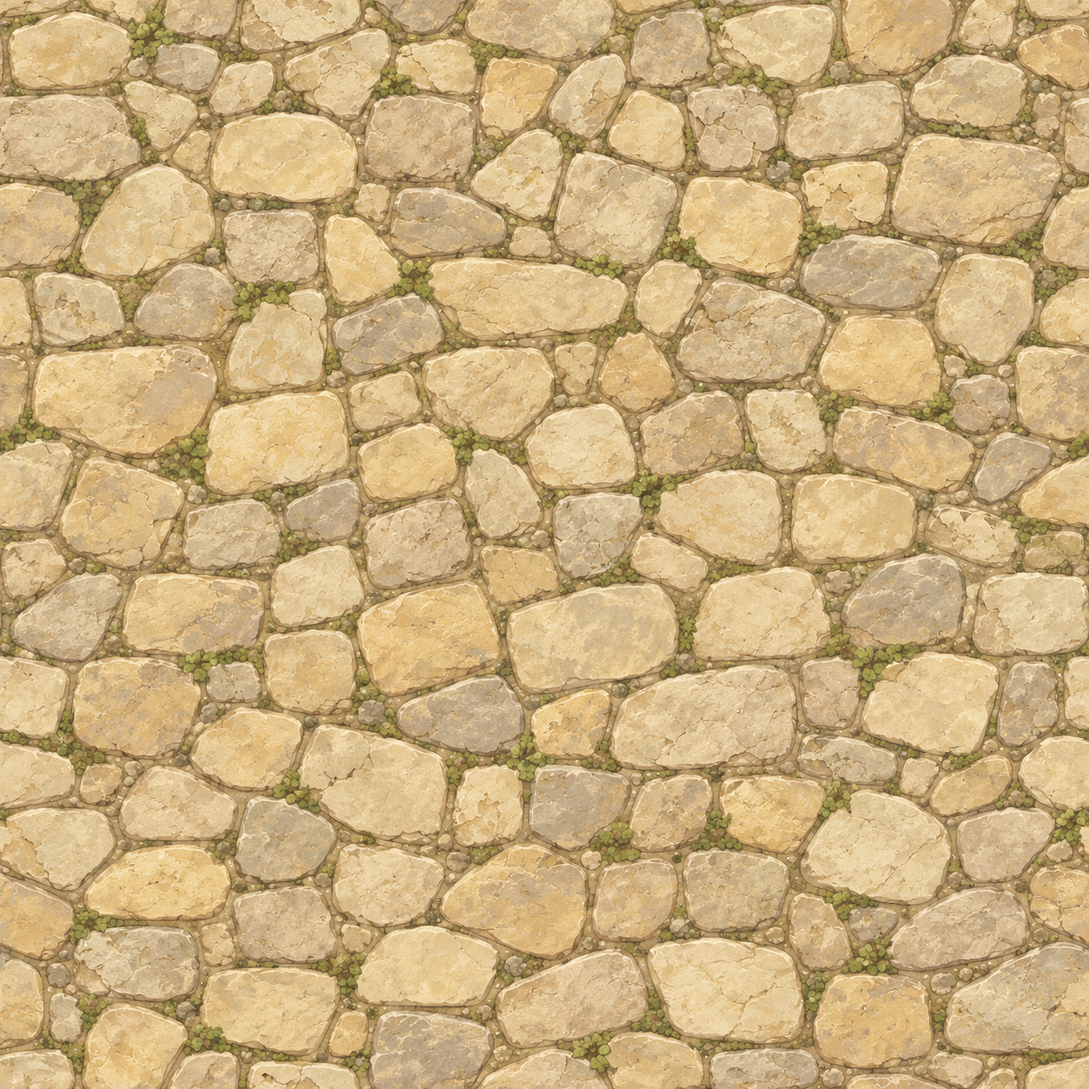
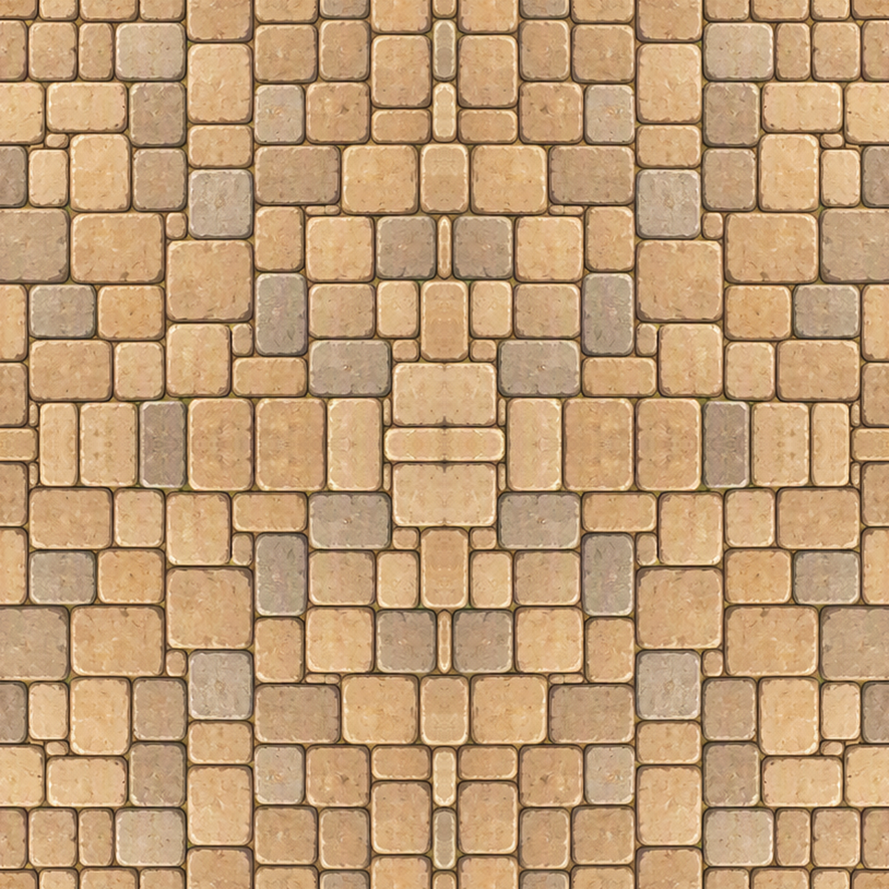
v63: fix small props drawing over buildings; new paving/grass tiles, round trees, firs, rocks, hedge rows, flower beds, lamp posts
Claude-Session: https://claude.ai/code/session_017qp7gUgbBUS4Gtiu5aUxHe

diff --git a/village-town.html b/village-town.html
@@ -4,7 +4,7 @@
 /* Immersive town canvas; controls float above the scene. */
 body{overflow:hidden}header{position:fixed;z-index:5;top:20px;left:24px;height:auto;background:none;border:0;padding:0;pointer-events:none;text-shadow:0 2px 10px #10271c}header small{font-size:9px;color:#f7edc6}header h1{font-size:19px;color:#fff0c7}.tag{display:none}main{display:block;height:100dvh}#stage{position:absolute;inset:0;background:#7b8f68}aside{display:none;position:fixed;z-index:9;top:112px;left:24px;width:230px;max-height:calc(100dvh - 140px);border:1px solid #c7c6a04d;border-radius:14px;background:#20382de8;backdrop-filter:blur(16px);box-shadow:0 15px 40px #18362650;padding:16px}aside.open{display:block}.editor{display:none}.hint{font-size:11px;margin-top:10px;padding-top:10px}#places{gap:1px}#places button{padding:6px 4px}#places b{width:23px;height:23px}.toolbar{left:auto;right:22px;top:22px;z-index:6;gap:7px}.toolbar button,.floatBtn{background:#213b2de8;border-color:#cbd2ac70;box-shadow:0 3px 14px #18362640;backdrop-filter:blur(12px)}#menuBtn{position:fixed;left:24px;top:74px;z-index:10;font-size:12px}.toolsPanel{position:fixed;z-index:10;right:22px;top:70px;width:220px;padding:14px;display:grid;gap:8px;background:#20382df2;border:1px solid #c7c6a04d;border-radius:12px;backdrop-filter:blur(16px)}.toolsPanel[hidden]{display:none}.toolsPanel button,.toolsPanel label{font-size:12px}.toolsPanel h3{font-size:12px;color:#e3d3a8;margin:0 0 4px}#compare{z-index:8;top:72px;width:min(440px,75%)}#status{left:24px;bottom:24px;font-size:12px;padding:10px 14px;border-color:#d1d5a250;background:#213b2de0}#credit{right:24px;bottom:24px;font-size:10px;color:#fcf4d3b0;text-shadow:0 1px 5px #1b3128}#help{position:fixed;bottom:65px;left:24px;pointer-events:none;font-size:11px;color:#f4edce;text-shadow:0 1px 4px #1a3326}#connection{font-size:11px;color:#d9e3bf;line-height:1.5}#connection.warning{color:#ffc29b}#editHelp{font-size:11px}.toolsPanel label.file{padding:8px 12px}#grid,#routes{display:none}#labels{font-size:12px}
 @media(max-width:760px){header{left:14px;top:14px}header h1{font-size:16px}header small{font-size:8px}#menuBtn{left:14px;top:61px}.toolbar{right:12px;top:14px;max-width:48%;justify-content:flex-end}.toolbar button{font-size:10px;padding:7px}aside{left:14px;top:101px;width:215px;max-height:calc(100dvh - 125px)}#status{left:14px;bottom:14px;max-width:calc(100% - 28px)}#help{left:14px;bottom:55px;font-size:10px}#credit{display:none}.toolsPanel{right:12px;top:60px}#compare{right:12px;top:95px;width:85%}}
-</style><header><div><small>PROJECT A / VILLAGE</small><h1>หมู่บ้านริมป่า</h1></div><span class="tag">ฉากทดลอง · อ้างอิงผังเดิม</span></header><button id="menuBtn" class="floatBtn" aria-expanded="false">☰ สถานที่</button><main><aside id="locationMenu"><h2>สถานที่ในหมู่บ้าน</h2><div id="places"></div><div class="hint">คลิกถนนเพื่อเดิน<br>ลากพื้นเพื่อเลื่อนกล้อง<br>หมุนล้อเพื่อซูม<br>คลิกสถานที่เพื่อเดินไปทางเข้า</div></aside><section id="stage"><canvas id="world" aria-label="ฉากหมู่บ้าน 2.5D คลิกเพื่อเดิน"></canvas><div class="toolbar"><button data-game="bag">กระเป๋า</button><button data-game="character">ตัวละคร</button><button data-game="upgrade">อัปไพ่</button><button data-game="adventure">ผจญภัย</button><button data-game="settings">ตั้งค่า</button><button id="activities">กิจกรรม</button><button id="compareBtn">ผังเดิม</button><button id="fit">ดูทั้งเมือง</button><button id="fullscreen">เต็มจอ</button><button id="toolsBtn" aria-expanded="false">⚙ เครื่องมือ</button></div><div class="toolsPanel" id="toolsPanel" hidden><h3>เครื่องมือจัดฉาก</h3><button id="labels">แสดงชื่อทุกสถานที่</button><button id="edit">จัดตำแหน่ง</button><div id="editHelp" hidden>ลากหมุดสีทองเพื่อย้ายอาคาร หรือเลือกสถานที่แล้วสลับหน้า SE/SW ถนนจะเชื่อมตามประตูใหม่</div><button id="facing">สลับหน้าอาคาร SE / SW</button><button id="export">ส่งออกพิกัด</button><label class="file">นำเข้าพิกัด<input type="file" id="import" accept=".json,application/json"></label><button id="reset">คืนผังต้นฉบับ</button><div id="connection"></div><button id="grid">พื้นที่เดิน</button><button id="routes">เส้นทาง</button></div><div id="compare" hidden><div class="map"><img src="assets/v03/village-map.webp" alt="แผนที่หมู่บ้านเดิม"><div id="pins"></div></div><p>หมายเลขตรงกับรายการซ้าย • ตำแหน่งอ้างอิงจากแผนที่เดิม</p></div><div id="status" role="status">เลือกสถานที่ หรือคลิกพื้นเพื่อลองเดิน</div><span id="credit"></span><div id="help">คลิกถนนเพื่อเดิน · ลากเพื่อเลื่อนกล้อง · หมุนล้อเพื่อซูม</div></section></main><dialog id="arrival"><h2></h2><p>กำลังตรวจสถานที่…</p><div id="placeActions"></div><button onclick="this.closest('dialog').close()">เดินต่อ</button></dialog><script src="js/asset-manifest.js"></script><script src="js/tactics-sprites.js"></script><script src="js/hero-motion.js"></script><script src="js/village-alpha-masks.js"></script><script src="js/town-art.js?v=57"></script><script>
+</style><header><div><small>PROJECT A / VILLAGE</small><h1>หมู่บ้านริมป่า</h1></div><span class="tag">ฉากทดลอง · อ้างอิงผังเดิม</span></header><button id="menuBtn" class="floatBtn" aria-expanded="false">☰ สถานที่</button><main><aside id="locationMenu"><h2>สถานที่ในหมู่บ้าน</h2><div id="places"></div><div class="hint">คลิกถนนเพื่อเดิน<br>ลากพื้นเพื่อเลื่อนกล้อง<br>หมุนล้อเพื่อซูม<br>คลิกสถานที่เพื่อเดินไปทางเข้า</div></aside><section id="stage"><canvas id="world" aria-label="ฉากหมู่บ้าน 2.5D คลิกเพื่อเดิน"></canvas><div class="toolbar"><button data-game="bag">กระเป๋า</button><button data-game="character">ตัวละคร</button><button data-game="upgrade">อัปไพ่</button><button data-game="adventure">ผจญภัย</button><button data-game="settings">ตั้งค่า</button><button id="activities">กิจกรรม</button><button id="compareBtn">ผังเดิม</button><button id="fit">ดูทั้งเมือง</button><button id="fullscreen">เต็มจอ</button><button id="toolsBtn" aria-expanded="false">⚙ เครื่องมือ</button></div><div class="toolsPanel" id="toolsPanel" hidden><h3>เครื่องมือจัดฉาก</h3><button id="labels">แสดงชื่อทุกสถานที่</button><button id="edit">จัดตำแหน่ง</button><div id="editHelp" hidden>ลากหมุดสีทองเพื่อย้ายอาคาร หรือเลือกสถานที่แล้วสลับหน้า SE/SW ถนนจะเชื่อมตามประตูใหม่</div><button id="facing">สลับหน้าอาคาร SE / SW</button><button id="export">ส่งออกพิกัด</button><label class="file">นำเข้าพิกัด<input type="file" id="import" accept=".json,application/json"></label><button id="reset">คืนผังต้นฉบับ</button><div id="connection"></div><button id="grid">พื้นที่เดิน</button><button id="routes">เส้นทาง</button></div><div id="compare" hidden><div class="map"><img src="assets/v03/village-map.webp" alt="แผนที่หมู่บ้านเดิม"><div id="pins"></div></div><p>หมายเลขตรงกับรายการซ้าย • ตำแหน่งอ้างอิงจากแผนที่เดิม</p></div><div id="status" role="status">เลือกสถานที่ หรือคลิกพื้นเพื่อลองเดิน</div><span id="credit"></span><div id="help">คลิกถนนเพื่อเดิน · ลากเพื่อเลื่อนกล้อง · หมุนล้อเพื่อซูม</div></section></main><dialog id="arrival"><h2></h2><p>กำลังตรวจสถานที่…</p><div id="placeActions"></div><button onclick="this.closest('dialog').close()">เดินต่อ</button></dialog><script src="js/asset-manifest.js"></script><script src="js/tactics-sprites.js"></script><script src="js/hero-motion.js"></script><script src="js/village-alpha-masks.js"></script><script src="js/town-art.js?v=63"></script><script>
 'use strict';
 const WORLD_W=4480,WORLD_H=2520,MX=44.8,MY=25.2;
 const HOUSE='assets/village-town/player-house.png';const BUILDINGS={"inn": "assets/village-town/inn.png", "guild": "assets/village-town/guild.png", "healer": "assets/village-town/healer.png", "shop": "assets/village-town/shop.png", "market": "assets/village-town/market.png", "temple": "assets/village-town/temple.png", "forge": "assets/village-town/forge.png"};let hovered=null;
@@ -62,7 +62,7 @@ function tree(t){const p=project(t.u,t.v),h=t.h*3;propSprite(7,p,h*.85,h)}
 function bush(u,v,flower=false){propSprite(2,project(u,v),85,85)}
 // v60: estate borders mix hedges, flower beds and planters (FFT/cozy-village look); real fences only on some fronts
 // optional generated decor: dropped into assets/village-town/decor/<name>.png it shows up automatically
-const DECOR=['bench','market-stall-red','market-stall-blue','banner-pole','woodpile','signpost','well','cart','hay','flower-box'],decorImg={};
+const DECOR=['hedge-row','flower-bed','lamp-post','bench','market-stall-red','market-stall-blue','banner-pole','woodpile','signpost','well','cart','hay','flower-box'],decorImg={};
 for(const n of DECOR){const im=new Image();im.onload=()=>{decorImg[n]=im;terrainDirty=true};im.src='assets/village-town/decor/'+n+'.png'}
 function decor(name,p,w,flip){const im=decorImg[name];if(!im)return;const h=w*im.naturalHeight/im.naturalWidth;g.save();g.translate(p.x,p.y);if(flip)g.scale(-1,1);g.fillStyle='#00000028';g.beginPath();g.ellipse(0,0,w*.38,w*.12,0,0,Math.PI*2);g.fill();TownArt.draw(g,im,null,[-w/2,-h*.92,w,h],project(hero.u,hero.v));g.restore()}
 function hashN(id,k){let h=2166136261;for(const c of id+':'+k)h=Math.imul(h^c.charCodeAt(0),16777619);return (h>>>0)/4294967296}
@@ -71,26 +71,26 @@ function borderStyle(o,si,k,n,front){const r=hashN(o.id,si*31+k);
  return r<.55?'hedge':r<.82?'flowers':r<.9?'gap':'hedge'}
 function drawBorder(a,b,style,r){if(style==='gap')return;if(style==='wood'||style==='stone'){drawFence(a,b,style);return}
  const at=q=>project(a.u+(b.u-a.u)*q,a.v+(b.v-a.v)*q);
- if(style==='hedge'){for(const q of[.22,.72]){const p=at(q),s=74+((r*997+q*13)%1)*22;propSprite(2,{x:p.x,y:p.y+8},s,s*.92)}return}
+ if(style==='hedge'){const A=project(a.u,a.v),B=project(b.u,b.v),im=decorImg['hedge-row'];if(im){const m=at(.5),w=Math.abs(B.x-A.x)+46,h=w*im.naturalHeight/im.naturalWidth;g.save();g.translate(m.x,m.y+6);if((B.x-A.x)*(B.y-A.y)>0)g.scale(-1,1);TownArt.draw(g,im,null,[-w/2,-h*.66,w,h],project(hero.u,hero.v));g.restore();return}for(const q of[.22,.72]){const p=at(q),s=74+((r*997+q*13)%1)*22;propSprite(2,{x:p.x,y:p.y+8},s,s*.92)}return}
  if(style==='planter'){const p=at(.5);propSprite(3,{x:p.x,y:p.y+6},74,90);return}
- for(const q of[.18,.5,.82]){const p=at(q);TownArt.detail(g,1+Math.floor(((r*7+q*3)%1)*2),{x:p.x,y:p.y+12},58)}}
+ if(decorImg['flower-bed']&&r<.6){const p=at(.5);decor('flower-bed',{x:p.x,y:p.y+14},118,r<.3);return}for(const q of[.18,.5,.82]){const p=at(q);TownArt.detail(g,1+Math.floor(((r*7+q*3)%1)*2),{x:p.x,y:p.y+12},58)}}
 // slim iron street lamp drawn in code (warm glass, soft glow)
-function lamp(p){const h=118,t=performance.now(),fl=.85+.15*Math.sin(t*.004+p.x);g.fillStyle='#00000035';g.beginPath();g.ellipse(p.x,p.y,13,5.5,0,0,Math.PI*2);g.fill();
+function lamp(p){const L=decorImg['lamp-post'];if(L){const h=150,w=h*L.naturalWidth/L.naturalHeight,t=performance.now(),fl=.85+.15*Math.sin(t*.004+p.x);g.fillStyle='#00000035';g.beginPath();g.ellipse(p.x,p.y,14,6,0,0,Math.PI*2);g.fill();TownArt.draw(g,L,null,[p.x-w/2,p.y-h*.97,w,h],project(hero.u,hero.v));const ly=p.y-h*.86,gl=g.createRadialGradient(p.x,ly,0,p.x,ly,48);gl.addColorStop(0,`rgba(255,210,120,${.32*fl})`);gl.addColorStop(1,'rgba(255,210,120,0)');g.fillStyle=gl;g.beginPath();g.arc(p.x,ly,48,0,Math.PI*2);g.fill();return}const h=118,t=performance.now(),fl=.85+.15*Math.sin(t*.004+p.x);g.fillStyle='#00000035';g.beginPath();g.ellipse(p.x,p.y,13,5.5,0,0,Math.PI*2);g.fill();
  g.fillStyle='#2b2a28';g.fillRect(p.x-7,p.y-10,14,10);g.fillRect(p.x-3,p.y-h,6,h);g.fillRect(p.x-6,p.y-h-2,12,5);
  const top=p.y-h-30;g.fillStyle='#2b2a28';g.beginPath();g.moveTo(p.x-12,top+6);g.lineTo(p.x,top-6);g.lineTo(p.x+12,top+6);g.closePath();g.fill();
  g.fillStyle=`rgba(255,${200*fl|0},110,${fl})`;g.fillRect(p.x-9,top+6,18,22);g.strokeStyle='#2b2a28';g.lineWidth=2.5;g.strokeRect(p.x-9,top+6,18,22);g.beginPath();g.moveTo(p.x,top+6);g.lineTo(p.x,top+28);g.stroke();
  const gl=g.createRadialGradient(p.x,top+17,0,p.x,top+17,46);gl.addColorStop(0,`rgba(255,210,120,${.35*fl})`);gl.addColorStop(1,'rgba(255,210,120,0)');g.fillStyle=gl;g.beginPath();g.arc(p.x,top+17,46,0,Math.PI*2);g.fill()}
 function drawFence(a,b,style){const length=Math.hypot(b.u-a.u,b.v-a.v),n=Math.max(1,Math.ceil(length/2));for(let i=0;i<n;i++){const q=(i+.5)/n,p=project(a.u+(b.u-a.u)*q,a.v+(b.v-a.v)*q),A=project(a.u,a.v),B=project(b.u,b.v);propSprite(style==='wood'?1:0,{x:p.x,y:p.y+10},100,100,(B.x-A.x)*(B.y-A.y)<0)}}
-function estateObjects(){const out=[];for(const o of locations){const e=estate(o);if(!e)continue;const first=out.length,P=(u,v)=>({u:e.u+u,v:e.v+v}),segments=[[P(e.left,e.back),P(e.right,e.back)],[P(e.left,e.back),P(e.left,e.front)],[P(e.right,e.back),P(e.right,e.front)],[P(e.left,e.front),P(-2.8,e.front)],[P(2.8,e.front),P(e.right,e.front)]];segments.forEach(([a,b],si)=>{const n=Math.ceil(Math.hypot(a.u-b.u,a.v-b.v)/2),front=si>=3;for(let k=0;k<n;k++){const A={u:a.u+(b.u-a.u)*k/n,v:a.v+(b.v-a.v)*k/n},B={u:a.u+(b.u-a.u)*(k+1)/n,v:a.v+(b.v-a.v)*(k+1)/n},style=borderStyle(o,si,k,n,front);if(style)out.push({y:(project(A.u,A.v).y+project(B.u,B.v).y)/2,draw:()=>drawBorder(A,B,style,hashN(o.id,si*31+k))})}});
+function estateObjects(){const out=[];for(const o of locations){const e=estate(o);if(!e)continue;const first=out.length,P=(u,v)=>({u:e.u+u,v:e.v+v}),segments=[[P(e.left,e.back),P(e.right,e.back)],[P(e.left,e.back),P(e.left,e.front)],[P(e.right,e.back),P(e.right,e.front)],[P(e.left,e.front),P(-2.8,e.front)],[P(2.8,e.front),P(e.right,e.front)]];segments.forEach(([a,b],si)=>{const n=Math.ceil(Math.hypot(a.u-b.u,a.v-b.v)/2),front=si>=3;for(let k=0;k<n;k++){const A={u:a.u+(b.u-a.u)*k/n,v:a.v+(b.v-a.v)*k/n},B={u:a.u+(b.u-a.u)*(k+1)/n,v:a.v+(b.v-a.v)*(k+1)/n},style=borderStyle(o,si,k,n,front);if(style)out.push({x:(project(A.u,A.v).x+project(B.u,B.v).x)/2,y:(project(A.u,A.v).y+project(B.u,B.v).y)/2,draw:()=>drawBorder(A,B,style,hashN(o.id,si*31+k))})}});
  // one lamp at the gate of the big places only
- if(!o.npc&&o.id!=='home'){const q=P(3.4,e.front+.4),pp=project(q.u,q.v);out.push({y:pp.y,draw:()=>lamp(pp)})}
- for(const side of[-1,1]){const u=e.u+(side<0?e.left+1.4:e.right-1.4);for(let v=e.v+e.back+1.6;v<e.v+e.front-1;v+=2.1)out.push({y:project(u,v).y,draw:()=>bush(u,v,true)});const p=project(e.u+side*3.3,e.v+e.front-.3);out.push({y:p.y,draw:()=>propSprite(3,p,90)})}
- if(['temple','guild','healer'].includes(o.id))for(const side of[-1,1]){const p=project(e.u+side*(o.w+1.2),e.v+o.d+3.4);out.push({y:p.y,draw:()=>propSprite(4,p,100,125)})}
- if(o.id==='inn')for(let i=0;i<2;i++){const p=project(e.u+o.w+1.8,e.v+o.d+2.4+i*2);out.push({y:p.y,draw:()=>propSprite(5,p,145,110)})}
- if(o.id==='forge')for(let i=0;i<3;i++){const p=project(e.u+o.w+2,e.v-1.4+i*2);out.push({y:p.y,draw:()=>propSprite(6,p,110)})}
+ if(!o.npc&&o.id!=='home'){const q=P(3.4,e.front+.4),pp=project(q.u,q.v);out.push({x:pp.x,y:pp.y,draw:()=>lamp(pp)})}
+ for(const side of[-1,1]){const u=e.u+(side<0?e.left+1.4:e.right-1.4);for(let v=e.v+e.back+1.6;v<e.v+e.front-1;v+=2.1)out.push({x:project(u,v).x,y:project(u,v).y,draw:()=>bush(u,v,true)});const p=project(e.u+side*3.3,e.v+e.front-.3);out.push({x:p.x,y:p.y,draw:()=>propSprite(3,p,90)})}
+ if(['temple','guild','healer'].includes(o.id))for(const side of[-1,1]){const p=project(e.u+side*(o.w+1.2),e.v+o.d+3.4);out.push({x:p.x,y:p.y,draw:()=>propSprite(4,p,100,125)})}
+ if(o.id==='inn')for(let i=0;i<2;i++){const p=project(e.u+o.w+1.8,e.v+o.d+2.4+i*2);out.push({x:p.x,y:p.y,draw:()=>propSprite(5,p,145,110)})}
+ if(o.id==='forge')for(let i=0;i<3;i++){const p=project(e.u+o.w+2,e.v-1.4+i*2);out.push({x:p.x,y:p.y,draw:()=>propSprite(6,p,110)})}
  // v61 district clusters: each building type gets its own little scene (3–8 props), using the art we have now
  // plus optional generated decor (assets/village-town/decor/*.png) that appears as soon as the file exists
- {const put=(du,dv,fn)=>{const q=P(du,dv),pp=project(q.u,q.v);out.push({y:pp.y,draw:()=>fn(pp)})},R=k=>hashN(o.id,900+k),F=e.front-.6,S=o.w+.9;
+ {const put=(du,dv,fn)=>{const q=P(du,dv),pp=project(q.u,q.v);out.push({x:pp.x,y:pp.y,draw:()=>fn(pp)})},R=k=>hashN(o.id,900+k),F=e.front-.6,S=o.w+.9;
   const herb=(du,dv)=>put(du,dv,pp=>TownArt.detail(g,3,{x:pp.x,y:pp.y+10},62)),flw=(du,dv,i=1)=>put(du,dv,pp=>TownArt.detail(g,i,{x:pp.x,y:pp.y+10},56)),crate=(du,dv)=>put(du,dv,pp=>propSprite(6,pp,92)),bush=(du,dv)=>put(du,dv,pp=>propSprite(2,{x:pp.x,y:pp.y+6},78,72)),pot=(du,dv)=>put(du,dv,pp=>propSprite(3,{x:pp.x,y:pp.y+6},64,78)),dec=(name,du,dv,w,flip)=>put(du,dv,pp=>decor(name,pp,w,flip));
   if(o.id==='market'){crate(-S,F-1.5);crate(S,F-2.6);pot(-2.2,F);pot(2.2,F);dec('market-stall-red',-S-.6,1.2,230);dec('market-stall-blue',S+.6,1.6,230,true);dec('cart',S+.4,F-.6,150);dec('banner-pole',-1.6,F+.2,70);dec('banner-pole',1.6,F+.2,70,true)}
   else if(o.id==='inn'){crate(S,-.6);flw(-S,F-1.2,2);bush(-S,F-.2);dec('woodpile',S+.2,1.6,120);dec('signpost',2.6,F+.3,70)}
@@ -100,11 +100,11 @@ function estateObjects(){const out=[];for(const o of locations){const e=estate(o
   else if(o.id==='forge'){crate(-S,F-1.2);dec('woodpile',-S-.2,.4,130);dec('cart',S+.6,F-.4,150,true);dec('hay',-S+.4,F-.2,90)}
   else if(o.id==='shop'){crate(S,F-1);pot(-1.8,F);dec('flower-box',1.4,F-.2,80)}
   else if(o.npc){const k=+o.id.slice(3);if(R(1)<.6)herb(-S,F-1.2);if(R(2)<.5)crate(S,F-1);if(R(3)<.7)flw(S-.3,F-.4,1+Math.floor(R(4)*2));if(R(5)<.5)bush(-S,F-.2);dec(R(6)<.5?'flower-box':'woodpile',R(7)<.5?-1.2:1.2,F-.2,90,R(8)<.5);if(k===7){dec('hay',S+.3,-.2,100);dec('hay',S+.4,1.2,90,true)}if(k===6||k===9)dec('well',-S-.4,F-1.6,120)}}
- if(o.facing==='SE')for(let i=first;i<out.length;i++){const draw=out[i].draw;out[i].draw=()=>reflectView(o,draw)}
+ if(o.facing==='SE'){const cx=project(center(o).u,center(o).v).x;for(let i=first;i<out.length;i++){const draw=out[i].draw;out[i].draw=()=>reflectView(o,draw);if(out[i].x!=null)out[i].x=cx*2-out[i].x}}
  }
  // plaza: lamps on the corners, planters between them
- const sq=locations.find(o=>o.id==='square');if(sq){const c=center(sq),R=6.6;for(const[du,dv]of[[-R,-R],[R,-R],[R,R],[-R,R]]){const pp=project(c.u+du,c.v+dv);out.push({y:pp.y,draw:()=>lamp(pp)})}for(const[du,dv]of[[0,-R],[R,0],[0,R],[-R,0]]){const pp=project(c.u+du,c.v+dv);out.push({y:pp.y,draw:()=>propSprite(3,{x:pp.x,y:pp.y+6},70,86)})}
- for(const[du,dv,f]of[[-3.6,-R+.6,0],[3.6,-R+.6,1],[R-.6,3.6,0],[-R+.6,3.6,1]]){const pp=project(c.u+du,c.v+dv);out.push({y:pp.y,draw:()=>decor('bench',pp,110,f)})}}
+ const sq=locations.find(o=>o.id==='square');if(sq){const c=center(sq),R=6.6;for(const[du,dv]of[[-R,-R],[R,-R],[R,R],[-R,R]]){const pp=project(c.u+du,c.v+dv);out.push({x:pp.x,y:pp.y,draw:()=>lamp(pp)})}for(const[du,dv]of[[0,-R],[R,0],[0,R],[-R,0]]){const pp=project(c.u+du,c.v+dv);out.push({x:pp.x,y:pp.y,draw:()=>propSprite(3,{x:pp.x,y:pp.y+6},70,86)})}
+ for(const[du,dv,f]of[[-3.6,-R+.6,0],[3.6,-R+.6,1],[R-.6,3.6,0],[-R+.6,3.6,1]]){const pp=project(c.u+du,c.v+dv);out.push({x:pp.x,y:pp.y,draw:()=>decor('bench',pp,110,f)})}}
  return out}
 function building(o){reflectView(o,()=>{if(o.id==='square'){const a=center(o),p=project(a.u,a.v),im=images.fountain,w=400,h=w*im.naturalHeight/im.naturalWidth;if(im.complete&&im.naturalWidth)TownArt.draw(g,im,null,[p.x-w*.5,p.y-h*.67,w,h],project(hero.u,hero.v));return}if(o.id==='home'||o.npc){const im=houseImage(o);if(im.complete&&im.naturalWidth){const r=homeSpriteRect(o);TownArt.draw(g,im,null,[r.x,r.y,r.w,r.h],project(hero.u,hero.v))}return}const art=artRect(o);if(art)TownArt.draw(g,art.im,null,[art.x,art.y,art.w,art.h],project(hero.u,hero.v))})}
 
@@ -197,7 +197,7 @@ function renderList(){$('places').innerHTML=locations.filter(o=>!o.npc).map(o=>`
 function groundPatches(){let h=91731;const r=()=>(h=Math.imul(h,1664525)+1013904223>>>0)/4294967296;const soil=TownArt.pattern(g,'soil');
  for(let i=0;i<190;i++){const x=r()*WORLD_W,y=r()*WORLD_H,rx=60+r()*190,k=r(),gr=g.createRadialGradient(x,y,0,x,y,rx);
   const col=k<.42?'34,64,22':k<.7?'150,146,72':k<.86?'86,110,40':'110,92,60';const a=k<.42?.22:k<.7?.16:k<.86?.2:.18;gr.addColorStop(0,`rgba(${col},${a})`);gr.addColorStop(1,`rgba(${col},0)`);g.fillStyle=gr;g.beginPath();g.ellipse(x,y,rx,rx*.55,0,0,Math.PI*2);g.fill()}
- if(soil)for(let i=0;i<26;i++){const x=r()*WORLD_W,y=r()*WORLD_H,rx=30+r()*60;g.save();g.globalAlpha=.55;g.fillStyle=soil;g.beginPath();g.ellipse(x,y,rx,rx*.5,r()*.6,0,Math.PI*2);g.fill();g.restore()}}
+ if(soil)for(let i=0;i<26;i++){const x=r()*WORLD_W,y=r()*WORLD_H,rx=30+r()*60;g.save();g.globalAlpha=.28;g.fillStyle=soil;g.beginPath();g.ellipse(x,y,rx,rx*.5,r()*.6,0,Math.PI*2);g.fill();g.restore()}}
 function drawTerrain(){
  g.fillStyle=TownArt.pattern(g,'grass')||'#7d906b';g.fillRect(0,0,WORLD_W,WORLD_H);groundPatches();
  g.save();g.scale(1,.5);g.lineCap='round';g.lineJoin='round';
@@ -213,12 +213,19 @@ function drawTerrain(){
 let backdrop=null;
 function makeBackdrop(){const c=document.createElement('canvas');c.width=560;c.height=315;const q=c.getContext('2d');q.filter='blur(5px) brightness(.72) saturate(.75)';q.drawImage(terrain,-20,-12,600,339);backdrop=c}
 function edgeFade(){const f=200,col='rgba(44,61,46,',sides=[[0,0,WORLD_W,f,0,0,0,f],[0,WORLD_H-f,WORLD_W,f,0,WORLD_H,0,WORLD_H-f],[0,0,f,WORLD_H,0,0,f,0],[WORLD_W-f,0,f,WORLD_H,WORLD_W,0,WORLD_W-f,0]];for(const[x,y,w,h,x0,y0,x1,y1]of sides){const gr=g.createLinearGradient(x0,y0,x1,y1);gr.addColorStop(0,col+'.85)');gr.addColorStop(1,col+'0)');g.fillStyle=gr;g.fillRect(x,y,w,h)}}
+// v63: small things standing on ground that a building visibly covers are behind it — draw them first
+// (building art is wider than its footprint, so a plain y-sort let fences, flowers and trees poke through walls)
+const artMasks=new WeakMap();
+function artMask(im){let m=artMasks.get(im);if(m)return m;const c=document.createElement('canvas');c.width=128;c.height=Math.max(1,Math.round(128*im.naturalHeight/im.naturalWidth));const q=c.getContext('2d',{willReadFrequently:true});q.drawImage(im,0,0,c.width,c.height);const d=q.getImageData(0,0,c.width,c.height).data,a=new Uint8Array(c.width*c.height);for(let i=0;i<a.length;i++)a[i]=d[i*4+3]>60?1:0;m={w:c.width,h:c.height,a};artMasks.set(im,m);return m}
+function insideArt(o,r,x,y){if(x<r.x||x>r.x+r.w||y<r.y||y>r.y+r.h)return false;const fx=o.facing==='SE'?(r.x+r.w-x)/r.w:(x-r.x)/r.w,m=r.mask;return m.a[Math.min(m.h-1,Math.floor((y-r.y)/r.h*m.h))*m.w+Math.min(m.w-1,Math.floor(fx*m.w))]===1}
+function occludeByBuildings(objects){const bs=[];for(const o of locations){const r=window.TownUX?.art(o);if(r?.im?.complete&&r.im.naturalWidth){r.mask=artMask(r.im);bs.push({o,r,key:o.y*MY})}}
+ for(const it of objects){const x=it.x??it.plant?.x;if(x==null||it.building)continue;for(const b of bs){if(it.y>=b.key+60||it.y<b.r.y)continue;if(insideArt(b.o,b.r,x,it.y-6)&&insideArt(b.o,b.r,x,it.y+22)){it.y=Math.min(it.y,b.key-1)}}}}
 function draw(t){if(document.hidden||!townActive){last=t;requestAnimationFrame(draw);return}time=t;const dt=Math.min(.1,(t-last)/1000||0);last=t;if(path.length&&!editing){const b=path[0],du=b.u-hero.u,dv=b.v-hero.v,len=Math.hypot(du,dv),step=dt*8;if(len<=step){hero.u=b.u;hero.v=b.v;path.shift();if(!path.length)arrive()}else{hero.u+=du/len*step;hero.v+=dv/len*step;hero.dir8=facing8(du,dv);hero.dir=spriteDir(hero.dir8,hero.dir)}}
  window.TownUX?.update(dt,t);g.setTransform(devicePixelRatio,0,0,devicePixelRatio,0,0);g.fillStyle='#2c3d2e';g.fillRect(0,0,W,H);g.translate(W/2+pan.x,H/2+pan.y);g.scale(scale*zoom,scale*zoom);g.translate(-WORLD_W/2,-WORLD_H/2);if(backdrop)g.drawImage(backdrop,-WORLD_W*.45,-WORLD_H*.45,WORLD_W*1.9,WORLD_H*1.9);
  if(terrainDirty){const mainG=g;g=terrain.getContext('2d');g.clearRect(0,0,WORLD_W,WORLD_H);drawTerrain();g=mainG;terrainDirty=false;makeBackdrop()}g.drawImage(terrain,0,0);edgeFade();window.TownUX?.ground(g,t);
 
  if(path.length){g.strokeStyle='#e8d496';g.lineWidth=2.5;g.setLineDash([5,6]);g.beginPath();let p=project(hero.u,hero.v);g.moveTo(p.x,p.y);for(const a of path){p=project(a.u,a.v);g.lineTo(p.x,p.y)}g.stroke();g.setLineDash([]);const end=project(path.at(-1).u,path.at(-1).v);ellipse(end.x,end.y,13,6,'#f4dc9f88')}
- TownArt.begin(g,project(hero.u,hero.v));const objects=[...estateObjects(),...locations.map(o=>({y:(canonical(o,hero.u,hero.v).v>center(o).v+o.d+.2||canonical(o,hero.u,hero.v).u>center(o).u+o.w+.2)?Math.min(o.y*MY,project(hero.u,hero.v).y-.1):o.y*MY,draw:()=>{g.save();building(o);g.restore()}})),...(window.VillageNature?.objects()||[]),{y:project(hero.u,hero.v).y,draw:()=>{const p=project(hero.u,hero.v);ellipse(p.x,p.y,16.9,7.8,'#182b2877');TownArt.hero(g,p,hero.dir,t,path.length>0,93.6,hero.dir8)}}];objects.push(...(window.TownMenu?.gateObjects()||[]));objects.sort((a,b)=>a.y-b.y).forEach(o=>o.draw(g));
+ TownArt.begin(g,project(hero.u,hero.v));const objects=[...estateObjects(),...locations.map(o=>({y:(canonical(o,hero.u,hero.v).v>center(o).v+o.d+.2||canonical(o,hero.u,hero.v).u>center(o).u+o.w+.2)?Math.min(o.y*MY,project(hero.u,hero.v).y-.1):o.y*MY,building:true,draw:()=>{g.save();building(o);g.restore()}})),...(window.VillageNature?.objects()||[]),{y:project(hero.u,hero.v).y,draw:()=>{const p=project(hero.u,hero.v);ellipse(p.x,p.y,16.9,7.8,'#182b2877');TownArt.hero(g,p,hero.dir,t,path.length>0,93.6,hero.dir8)}}];objects.push(...(window.TownMenu?.gateObjects()||[]));occludeByBuildings(objects);objects.sort((a,b)=>a.y-b.y).forEach(o=>o.draw(g));
  for(const o of locations){const p=window.TownUX?.labelPoint(o)||{x:o.x*MX,y:o.y*MY};if(showLabels||editing){g.font='13px VillageThai,system-ui';g.textAlign='center';const text=o.num+'  '+o.name,w=g.measureText(text).width+22;g.fillStyle=selected===o.id?'#8b7146ee':'#24382fe8';g.fillRect(p.x-w/2,p.y+12,w,25);g.fillStyle='#f6e8bd';g.fillText(text,p.x,p.y+30)}if(editing){ellipse(p.x,p.y,11,11,'#e9cb7b');g.fillStyle='#3e442f';g.font='bold 11px sans-serif';g.textAlign='center';g.fillText(o.num,p.x,p.y+4)}}
  window.TownUX?.overlay(g,t);requestAnimationFrame(draw)}
 function focusHero(){const p=project(hero.u,hero.v);pan={x:-(p.x-WORLD_W/2)*scale*zoom,y:H*.15-(p.y-WORLD_H/2)*scale*zoom}}
@@ -253,7 +260,7 @@ document.querySelectorAll('[data-game]').forEach(b=>b.onclick=()=>sendGame('menu
 
 document.addEventListener('pointerdown',()=>sendGame('input'),{capture:true});document.addEventListener('keydown',()=>sendGame('input'),{capture:true});
 rebuildRoads();heroRestore();renderList();fit();new ResizeObserver(fit).observe(stage);parent.postMessage({source:'project-a-town',type:'ready'},'*');document.fonts.ready.then(()=>terrainDirty=true);requestAnimationFrame(draw);
-</script><script src="js/town-ux.js?v=61"></script><script src="js/town-menu.js?v=59"></script><script src="js/nature-alpha-masks.js"></script><script src="js/village-nature.js?v=61"></script></html>
+</script><script src="js/town-ux.js?v=63"></script><script src="js/town-menu.js?v=59"></script><script src="js/nature-alpha-masks.js"></script><script src="js/village-nature.js?v=63"></script></html>
 
 
 <!-- Art sources and prompts: docs/ASSET_NOTES.txt. PNG objects are used for all buildings and props; roads and floor are native editable geometry. -->

diff --git a/js/village-nature.js b/js/village-nature.js
@@ -2,7 +2,7 @@
 (function(){'use strict';
 const CELL=12,cols=Math.ceil(WORLD_W/CELL),rows=Math.ceil(WORLD_H/CELL),stride=cols+1;
 let occupied=null,integral=null,oldRoads=null,oldLayout='',plants=[],details=[],renderables=[],generation=0,buildMS=0;
-const sprites={broadleaf:TownArt.image('assets/village-town/nature/broadleaf.webp'),pine:TownArt.image('assets/village-town/nature/pine.webp'),oak:TownArt.image('assets/village-town/nature/old-oak.webp')};
+const sprites={broadleaf:TownArt.image('assets/village-town/nature/tree-round.png'),broadleaf2:TownArt.image('assets/village-town/nature/tree-round-2.png'),pine:TownArt.image('assets/village-town/nature/tree-conifer.png'),oak:TownArt.image('assets/village-town/nature/old-oak.webp'),rock:TownArt.image('assets/village-town/nature/rock-cluster.png')};
 const rng=(seed)=>()=>((seed=Math.imul(seed,1664525)+1013904223>>>0)/4294967296);
 function layoutKey(){return JSON.stringify(locations.map(o=>[o.id,o.x,o.y,o.w,o.d,o.facing,...Object.values(TownUX.art(o)||{}).filter(v=>typeof v==='number')]))}
 function rects(){return locations.map(o=>TownUX.art(o)).filter(Boolean)}
@@ -53,7 +53,7 @@ function ensure(){
  for(let i=0;i<7000&&plants.length<620;i++){
   const x=30+random()*(WORLD_W-60),y=30+random()*(WORLD_H-60),d=density(x,y),pick=random(),w=48+random()*43,flip=random()<.5;
   if(pick>(.06+d.value*.55)||!free(x,y,w*.46,w*.22)||nearby(x,y,22))continue;
-  add({x,y,w,h:w,kind:'bush',flip,space:20});
+  if(random()<.16)add({x,y,w:w*1.3,h:w*1.02,kind:'rock',flip,space:24});else add({x,y,w,h:w,kind:'bush',flip,space:20});
  }
  for(let i=0;i<9000&&details.length<1800;i++){
   const x=24+random()*(WORLD_W-48),y=24+random()*(WORLD_H-48),d=density(x,y),pick=random(),w=22+random()*28;
@@ -65,7 +65,7 @@ function ensure(){
  renderables=plants.map(p=>({y:p.y,plant:p,draw:()=>drawPlant(p)}));generation++;buildMS=performance.now()-started;
 }
 function drawPlant(p){
- const im=p.kind==='bush'?images.props:sprites[p.kind];if(!im?.complete||!im.naturalWidth)return;
+ const im=p.kind==='bush'?images.props:sprites[p.kind==='broadleaf'&&(Math.round(p.x*7+p.y*3)%3===0)?'broadleaf2':p.kind];if(!im?.complete||!im.naturalWidth)return;
  g.save();g.translate(p.x,p.y);if(p.flip)g.scale(-1,1);
  const crop=p.kind==='bush'?[im.naturalWidth/2,0,im.naturalWidth/4,im.naturalHeight/2]:null;
  TownArt.draw(g,im,crop,[-p.w/2,-p.h*.93,p.w,p.h],project(hero.u,hero.v));g.restore();

diff --git a/index.html b/index.html
@@ -22,4 +22,4 @@
 </ul><p>จัดสำรับที่บ้าน → จัดสำรับ → สำรับสนามตาราง · เวลาในเกมเดินตามรอบ CT ไม่ใช้เวลาที่ปล่อยหน้าจอทิ้งไว้</p></dialog>
 </section><script src="js/asset-manifest.js"></script><script src="js/adventure-data.js"></script><script src="js/tactics-decks.js?v=53"></script><script src="js/tactics-terraced-hill.js?v=51"></script><script src="js/tactics-map-modules.js?v=52"></script><script src="js/tactics-fft-terrain.js?v=56"></script><script src="js/tactics-core.js?v=56"></script><script src="js/tactics-scenery.js?v=55"></script><script src="js/occlusion-masks.js"></script><script src="js/battle-art.js"></script><script src="js/tactics-sprites.js"></script><script src="js/hero-motion.js"></script><script src="js/monster-animation.js"></script>
 <script src="js/battle-idle.js"></script><script src="js/battle-polish.js?v=58"></script><script src="js/battle-diagnostics.js"></script><script src="js/tactics-surface.js"></script><script src="js/battle-card-flow.js"></script><script src="js/tactics-hill-art.js?v=56"></script><script src="js/tactics-ui.js?v=58"></script><script src="js/tactics-bridge.js"></script><script src="js/battle-fft.js"></script><script src="js/tactics-deckbuilder.js"></script><script src="js/expedition.js"></script><script src="js/layout-v08.js"></script><script src="js/unit-card-art.js"></script><script src="js/card-studio.js"></script><script src="js/hand-cards.js"></script><script src="js/adventure.js?v=53"></script><script src="js/nav-icons.js"></script><script src="js/editor-mode.js"></script><script src="js/save-backup.js"></script><script src="js/settings.js"></script><script src="js/battle-controls-v34.js"></script><script src="js/battle-flow.js?v=53"></script><script src="js/battle-juice.js?v=54"></script><script src="js/battle-night.js?v=54"></script><script src="js/battle-intro.js?v=56"></script>
-<script src="js/game-bgm.js?v=50"></script><script src="js/village-town-bridge.js?v=61"></script></body></html>
+<script src="js/game-bgm.js?v=50"></script><script src="js/village-town-bridge.js?v=63"></script></body></html>

diff --git a/js/town-art.js b/js/town-art.js
@@ -6,7 +6,7 @@
  const files={grass:'grass.png',paving:'paving.png',soil:'soil.png',details:'meadow-details.png',pond:'garden-pond.png',materials:'market-materials.png',equipment:'market-equipment.png',orders:'market-orders.png',props:'props.png',fountain:'fountain.png'};
  function image(src){if(!images.has(src)){const im=new Image();im.onload=()=>listeners.forEach(f=>f());im.src=src;images.set(src,im)}return images.get(src)}
  function asset(id){return image('assets/village-town/'+(files[id]||id))}
- function pattern(g,id){const im=asset(id);if(!im.complete||!im.naturalWidth)return null;let cache=patterns.get(g);if(!cache)patterns.set(g,cache=new Map());if(!cache.has(id)){const c=document.createElement('canvas');c.width=c.height=id==='paving'?320:420;c.getContext('2d').drawImage(im,0,0,c.width,c.height);cache.set(id,g.createPattern(c,'repeat'))}return cache.get(id)}
+ function pattern(g,id){const im=asset(id);if(!im.complete||!im.naturalWidth)return null;let cache=patterns.get(g);if(!cache)patterns.set(g,cache=new Map());if(!cache.has(id)){const c=document.createElement('canvas');c.width=c.height=id==='paving'?600:420;c.getContext('2d').drawImage(im,0,0,c.width,c.height);cache.set(id,g.createPattern(c,'repeat'))}return cache.get(id)}
  function mask(im){const pre=root.VillageAlpha?.get(im.src,im.naturalWidth,im.naturalHeight);if(pre)return pre;if(masks.has(im))return masks.get(im);let out=null;try{const c=document.createElement('canvas');c.width=256;c.height=Math.max(1,Math.round(256*im.naturalHeight/im.naturalWidth));const g=c.getContext('2d',{willReadFrequently:true});g.drawImage(im,0,0,c.width,c.height);out={w:c.width,h:c.height,data:g.getImageData(0,0,c.width,c.height).data}}catch{}masks.set(im,out);return out}
  function begin(g,p){heroPainted=false;heroScreen=new DOMPoint(p.x,p.y).matrixTransform(g.getTransform())}
  function draw(g,im,crop,rect,hero){if(!im?.complete||!im.naturalWidth)return;let alpha=1;const [x,y,w,h]=rect;

diff --git a/js/village-town-bridge.js b/js/village-town-bridge.js
@@ -2,7 +2,7 @@
 (function(){'use strict';
 const host=document.createElement('section');host.id='villageTownLayer';host.setAttribute('aria-label','หมู่บ้าน');host.style.cssText='position:fixed;inset:0;z-index:200;background:#718568';
 function makeFrame(title,src){const f=document.createElement('iframe');f.title=title;f.style.cssText='width:100%;height:100%;border:0';f.allow='fullscreen';if(src)f.src=src;host.appendChild(f);return f}
-const frame=makeFrame('หมู่บ้าน 2.5D','village-town.html?v=62'),marketFrame=makeFrame('ตลาดหมู่บ้าน 2.5D');marketFrame.hidden=true;document.body.appendChild(host);
+const frame=makeFrame('หมู่บ้าน 2.5D','village-town.html?v=63'),marketFrame=makeFrame('ตลาดหมู่บ้าน 2.5D');marketFrame.hidden=true;document.body.appendChild(host);
 const back=document.createElement('button');back.id='townReturn';back.textContent='← กลับแผนที่หมู่บ้าน';back.style.cssText='position:fixed;left:20px;top:78px;z-index:201;padding:10px 16px;border-radius:10px;background:#213b2df0;color:#fff0c7;border:1px solid #b6c48e';back.hidden=true;back.onclick=()=>openTown();document.body.append(back);
 let ready=false,marketReady=false,initialized=false,lastStamp='',lastMotion='',inside=false,marketOpen=false,lastVisible='';
 function post(f,data){f.contentWindow?.postMessage({source:'project-a-game',...data},'*')}

diff --git a/docs/CHANGELOG-TH.md b/docs/CHANGELOG-TH.md
@@ -1330,3 +1330,13 @@ v35b: เปลี่ยนการหมุนสนามจาก crossfade 
 # v62 — ของตกแต่งหมู่บ้านชุดแรก
 ไฟล์ใหม่: assets/village-town/decor/ (bench, market-stall-red, market-stall-blue, banner-pole, woodpile, signpost, well, cart, hay, flower-box) · แก้: village-town.html
 - ตัดจากชีตที่เจนมา ลบพื้นหลังดำ (รวมช่องว่างใต้ม้านั่ง/รถเข็น) · วางอัตโนมัติตามกลุ่มอาคาร: ม้านั่ง 4 ตัวรอบลานน้ำพุ · แผงตลาด รถเข็น ธงที่ตลาด · ธงหน้าสมาคม · กองฟืน ป้ายบอกทางที่โรงแรม · ฟาง รถเข็นที่โรงตีเหล็ก · กระบะดอกไม้/ฟืนหน้าบ้าน NPC · บ่อน้ำข้างบ้านชาวประมงและหมอยา
+
+
+---
+
+# v63 — แก้ของเล็กทะลุอาคาร · ชุดพื้น/ต้นไม้/ขอบสวนใหม่
+แก้: village-town.html, js/village-nature.js, js/town-art.js · ไฟล์ใหม่/แทน: assets/village-town/{paving,grass}.png, nature/{tree-round,tree-round-2,tree-conifer,rock-cluster}.png, decor/{hedge-row,flower-bed,lamp-post}.png
+- ลำดับความลึก: รั้ว พุ่มไม้ ดอกไม้ ต้นไม้ และของตกแต่งที่ยืนบนพื้นซึ่งภาพอาคารบังอยู่ ถูกวาดก่อนอาคาร (ตรวจด้วย alpha ของภาพอาคาร) ไม่ทะลุผนังแล้ว · ใช้ mask ความละเอียดต่ำที่แคชไว้ ไม่กระทบความลื่น
+- พื้นถนนหินปูเหลี่ยม (ต่อแบบ mirror ไร้รอยต่อ) · หญ้าโคลเวอร์ใหม่ (ต่อไร้รอยต่อ)
+- ต้นไม้พุ่มกลม 2 แบบ + ต้นสนเขียวเข้มแทนชุดเดิม · กองหินมอสในสวนและขอบป่า
+- ขอบแปลงแบบแนวพุ่มตัดแต่ง (หันตามแนวขอบอัตโนมัติ) · แปลงดอกไม้ขอบหิน · เสาไฟเหล็กแบบภาพ (มีแสงไหว)
